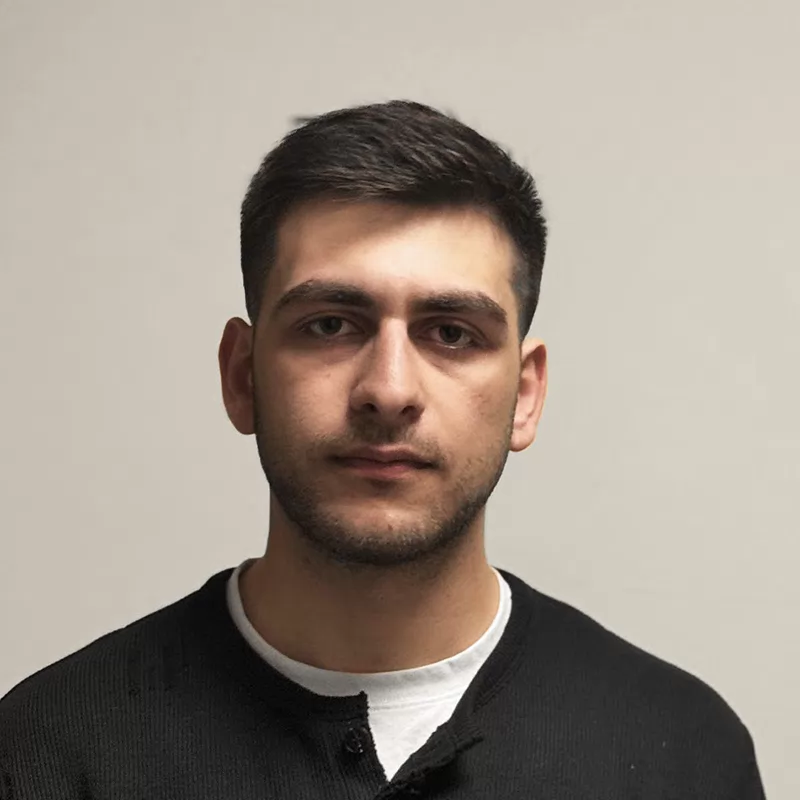
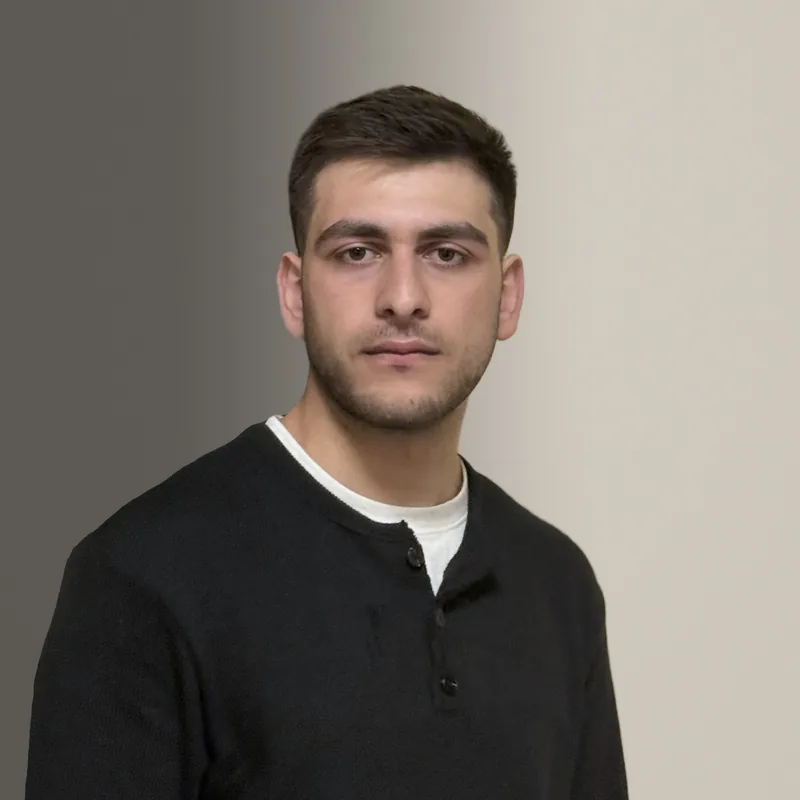
feature(portrait): photo 31 on a warm grey wall, clean hair and neck edges

diff --git a/STATUS.md b/STATUS.md
@@ -25,12 +25,13 @@
 - **Promises to the lab:** keep `/book` working (the lab's "Book a call" links go to `/book?from=lab-<station>`; the page keeps `?from=`) and send the lab session a NOTICE with the commit when `src/styles/tokens.css` changes (it copied v3; unchanged since `ca74e54`).
 - After launch: build the diff demo (an agent's change, the check that catches the bug, the fix) and test it against the race figure on the first screen with 2 or 3 real people; the winner stays on top (Saba, 2026-10-17).
 - A 5-second test of the first screen with 2 or 3 real people (one picture per theme).
-- Portrait: version A (photo #11 of the 15 Oct shoot, edited in PhotoCraft) is in since 2026-10-18. A reshoot with side light and a slight smile would still beat it (`private/photos/reshoot-guide.md`).
+- Portrait: L1 (photo #31 of the 15 Oct shoot) since 2026-10-21. A reshoot with side light and a slight smile would still beat it (`private/photos/reshoot-guide.md`).
 - Phase 3: the Georgian home page (the new texts, through `../_shared/playbooks/georgian.md`, then Saba). Restore the Georgian set-up from git (`c84b45d`: i18n, the Georgian font, the hreflang tags, the `:lang(ka)` rule) and delete the `/ka` lines in `public/_redirects`.
 - Later pages: How I work (the stepper, from git `c84b45d`), case studies, a booking tool, the Lab page.
 
 ## Log
 
+- **2026-10-21 (new portrait):** Saba picked L1: shot #31 of the 15 October shoot on a warm grey wall in shadow behind the neck, cut with a hair-aware model (BiRefNet) and smoothed by hand where the neck meets the collar; face only colour-balanced. `public/portrait.webp` replaced (800 x 800, 15 KB, was 28 KB). Recipe and files in `private/photos/final-2026-10-21/`. A tighter crop of the same photo goes on GitHub, LinkedIn and Upwork.
 - **2026-10-21 (dates, Upwork):** Saba's start at the exchange is November 2022 (was "January 2023" on the site); his roles there: Frontend Developer Nov 2022 – Feb 2024, Backend Developer Mar 2024 – Feb 2026, Principal Engineer since Mar 2026; Chama Nov 2024 – Nov 2025 (months picked by Saba from his commit history). Site, CV, PDF and GitHub README updated. Upwork filled in Playwright with Saba logged in himself (his choice; Upwork's rules on automation explained to him): title, overview, $50/hr, 17 skills, 4 portfolio items, education, employment history. LinkedIn stays locked: Saba pastes from the private guide.
 - **2026-10-21 (GitHub):** with Saba's OK: the username is now `sabajanelidze` (was `000Janela000`; the old profile link gives 404, repo links redirect). This repo is now `sabajanelidze/sabajanelidze.com` (GitHub matches repo names without case, so `SabaJanelidze` had taken the profile README's place). Real photo as avatar, 4 pins (this site, the lab, acctswap, OrgClone), cj-ways membership shown, topics on 10 repos, npm links on the 4 tools, the X link removed, OrgClone's README fixed (it named a stranger's npm package), Arcana's description updated (18 skills, 5 agents). Arcana and UserClone can't be pinned yet: their commits use an email GitHub can't link (`janela@example.com`); the next real commit from a linked email fixes it.
 - **2026-10-21 (live: the CV and the GitLab note):** deployed and pushed with Saba's OK: the new /cv and its PDF, the SEO fixes, then the line about the private GitLab on /cv. GitHub: a profile README with the same note (Saba approved the text), the dates-only mirror repo and the profile itself (bio "Principal Engineer · Fintech & AI. Most of my work is in a private company GitLab; my open-source tools are here.", website www.sabajanelidze.com instead of the old Vercel address, Tbilisi, Georgia, available for hire).
